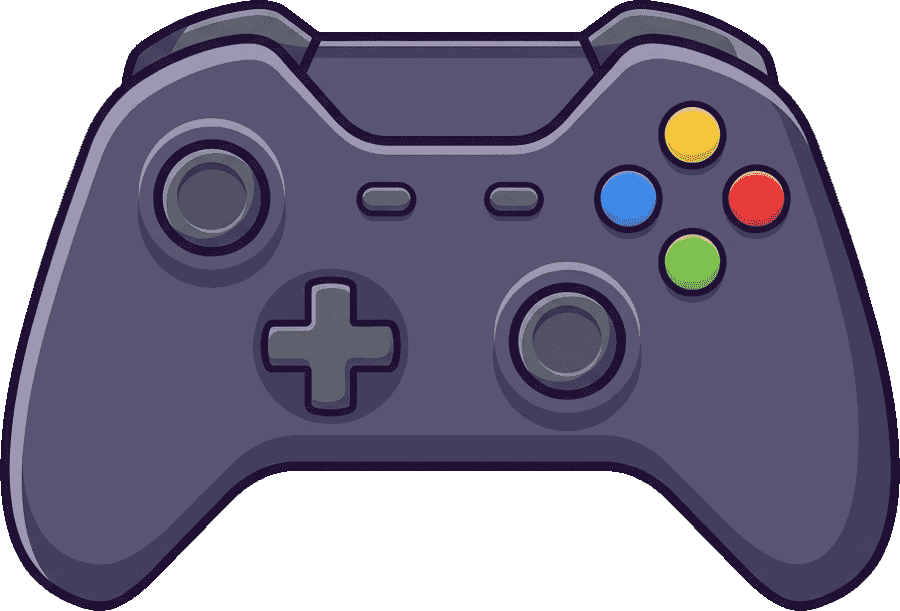
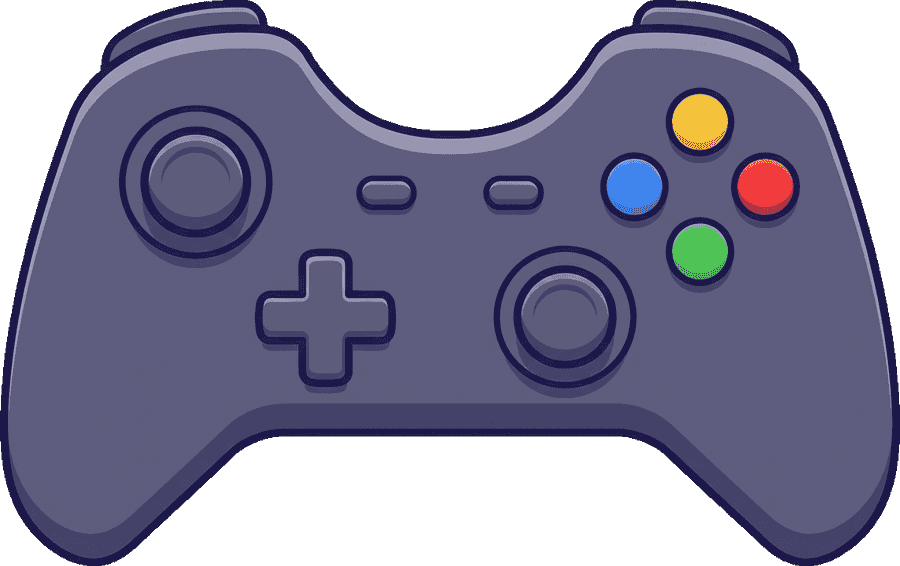
Ver.1.744: コントローラーの絵を作り直した（上端中央の「棚」を無くす）
ユーザー指摘: 左右の肩ボタンの間に渡してある平らな帯（実測 x 34.5〜65.5% /
y 5.2〜7.9%）は実物のコントローラーに無い部分。

- 画像を後から削る修正も書いて試したが、切り欠きの名残が短い棒として残り、
  それを塗るとバンパーの輪郭が欠けた＝継ぎ目が必ず残るので採用しなかった。
  くぼみを深くして一緒に消す案も、バンパーの端が縦に切り落とされて不自然だった。
- 生成プロンプトに「肩ボタンの間は上端がへこむ／板・棚・橋を渡さない／
  そこには何も描かない」を明記して生成し直し、正しく描けた候補を採用。
- 絵が変わったので**座標を全部測り直した**（900x611 → 900x566）。
  A/B/X/Y は色の重心、肩ボタン・スティック・十字キー・STARTは画素で位置を確認。
  バッジの位置が本体に重なっていないことも透明度で確認済み。
- 使わなくなった切削コードは残さない（正しい絵に当てると壊すため）。

Changed region(s): [[0.0, 0.0, 1.0, 1.0], [0.28, 0.4205, 0.4667, 0.6908], [0.7156, 0.7809, 0.7467, 0.811]]

diff --git a/index.html b/index.html
@@ -163,7 +163,7 @@
                 box-sizing: border-box;
             }
             body::after {
-                content: "Ver.1.743";
+                content: "Ver.1.744";
                 position: fixed;
                 bottom: 8px; right: 10px;
                 color: rgba(255,255,255,0.5);
@@ -1087,7 +1087,7 @@
                     color: #fff; font-size: clamp(7px, 1.2vw, 12px);
                     text-shadow: 2px 2px 4px rgba(0,0,0,0.8);
                     font-weight: bold;">
-                    <span style="background: rgba(0,0,0,0.4); padding: 2px 6px; border-radius: 5px;">Ver.1.743</span>
+                    <span style="background: rgba(0,0,0,0.4); padding: 2px 6px; border-radius: 5px;">Ver.1.744</span>
                 </div>
 
                 <!-- クレジット：右下 -->
@@ -6233,22 +6233,28 @@ function showGuide(focusSection) {
 //   （tools/gemini-gamepad-guide.mjs）。SVG の viewBox を絵の実寸に合わせるので、
 //   下の座標は**絵のピクセル**そのまま＝拡大縮小しても文字と線がズレない。
 // ⚠**絵を差し替えたら座標を測り直す**こと（グリッドを重ねて読むのが早い）。
-var GP_ART = { w: 900, h: 611 };
+// ⚠1.744 で絵を作り直したので**全部測り直してある**（旧: 900x611 の版）。
+//   作り直した理由＝ユーザー指摘。前の絵は左右の肩ボタンの間に**実物に無い平らな板**が
+//   渡してあった。部分的に削る修正も試したが継ぎ目が残ったため、
+//   「上端中央はへこませ、そこに何も描かない」と指示して生成し直した。
+var GP_ART = { w: 900, h: 566 };
 // フェイスボタン（絵には文字が描かれていないので、ここで A/B/X/Y を乗せる）
+// ⚠位置はボタンの色の重心を数えて出した実測値（目分量ではない）
 var GP_FACE = [
-    { ch: 'A', d: 'gp_d_a', x: 76.9, y: 44.2, color: '#7bc043' },
-    { ch: 'B', d: 'gp_d_b', x: 84.1, y: 32.7, color: '#e04747' },
-    { ch: 'X', d: 'gp_d_x', x: 69.9, y: 32.6, color: '#3d8fe8' },
-    { ch: 'Y', d: 'gp_d_y', x: 76.9, y: 22.3, color: '#f2c230' }
+    { ch: 'A', d: 'gp_d_a', x: 77.7, y: 44.4, color: '#7bc043' },
+    { ch: 'B', d: 'gp_d_b', x: 85.0, y: 32.5, color: '#e04747' },
+    { ch: 'X', d: 'gp_d_x', x: 70.4, y: 32.9, color: '#3d8fe8' },
+    { ch: 'Y', d: 'gp_d_y', x: 77.9, y: 21.5, color: '#f2c230' }
 ];
 // 番号バッジ: b* = バッジを置く場所 / t* = 引き出し線の先（どのパーツを指すか）。単位はどれも%
+// ⚠バッジの場所は**本体に重なっていないこと**を透明度で確認済み
 var GP_CALL = [
-    { n: 1, lbl: 'gp_lbl_stick',  d: 'gp_d_stick',  bx: -7, by: 20, tx: 17, ty: 30 },
-    { n: 2, lbl: 'gp_lbl_dpad',   d: 'gp_d_dpad',   bx: -7, by: 68, tx: 31, ty: 57 },
-    { n: 3, lbl: 'gp_lbl_l',      d: 'gp_d_l',      bx: 6,  by: -7, tx: 21, ty: 5.5 },
-    { n: 4, lbl: 'gp_lbl_r',      d: 'gp_d_r',      bx: 94, by: -7, tx: 77, ty: 5.5 },
-    { n: 5, lbl: 'gp_lbl_start',  d: 'gp_d_start',  bx: 46, by: -7, tx: 57, ty: 32.5 },
-    { n: 6, lbl: 'gp_lbl_rstick', d: 'gp_d_rstick', bx: 50, by: 92, tx: 63, ty: 57 }
+    { n: 1, lbl: 'gp_lbl_stick',  d: 'gp_d_stick',  bx: -7, by: 22, tx: 17,   ty: 31 },
+    { n: 2, lbl: 'gp_lbl_dpad',   d: 'gp_d_dpad',   bx: -7, by: 68, tx: 30,   ty: 56 },
+    { n: 3, lbl: 'gp_lbl_l',      d: 'gp_d_l',      bx: 6,  by: -7, tx: 24.7, ty: 3.5 },
+    { n: 4, lbl: 'gp_lbl_r',      d: 'gp_d_r',      bx: 94, by: -7, tx: 75.3, ty: 3.5 },
+    { n: 5, lbl: 'gp_lbl_start',  d: 'gp_d_start',  bx: 46, by: -7, tx: 57,   ty: 33.5 },
+    { n: 6, lbl: 'gp_lbl_rstick', d: 'gp_d_rstick', bx: 50, by: 92, tx: 61.5, ty: 57 }
 ];
 
 function gpArtX(pct) { return (pct / 100 * GP_ART.w).toFixed(1); }
